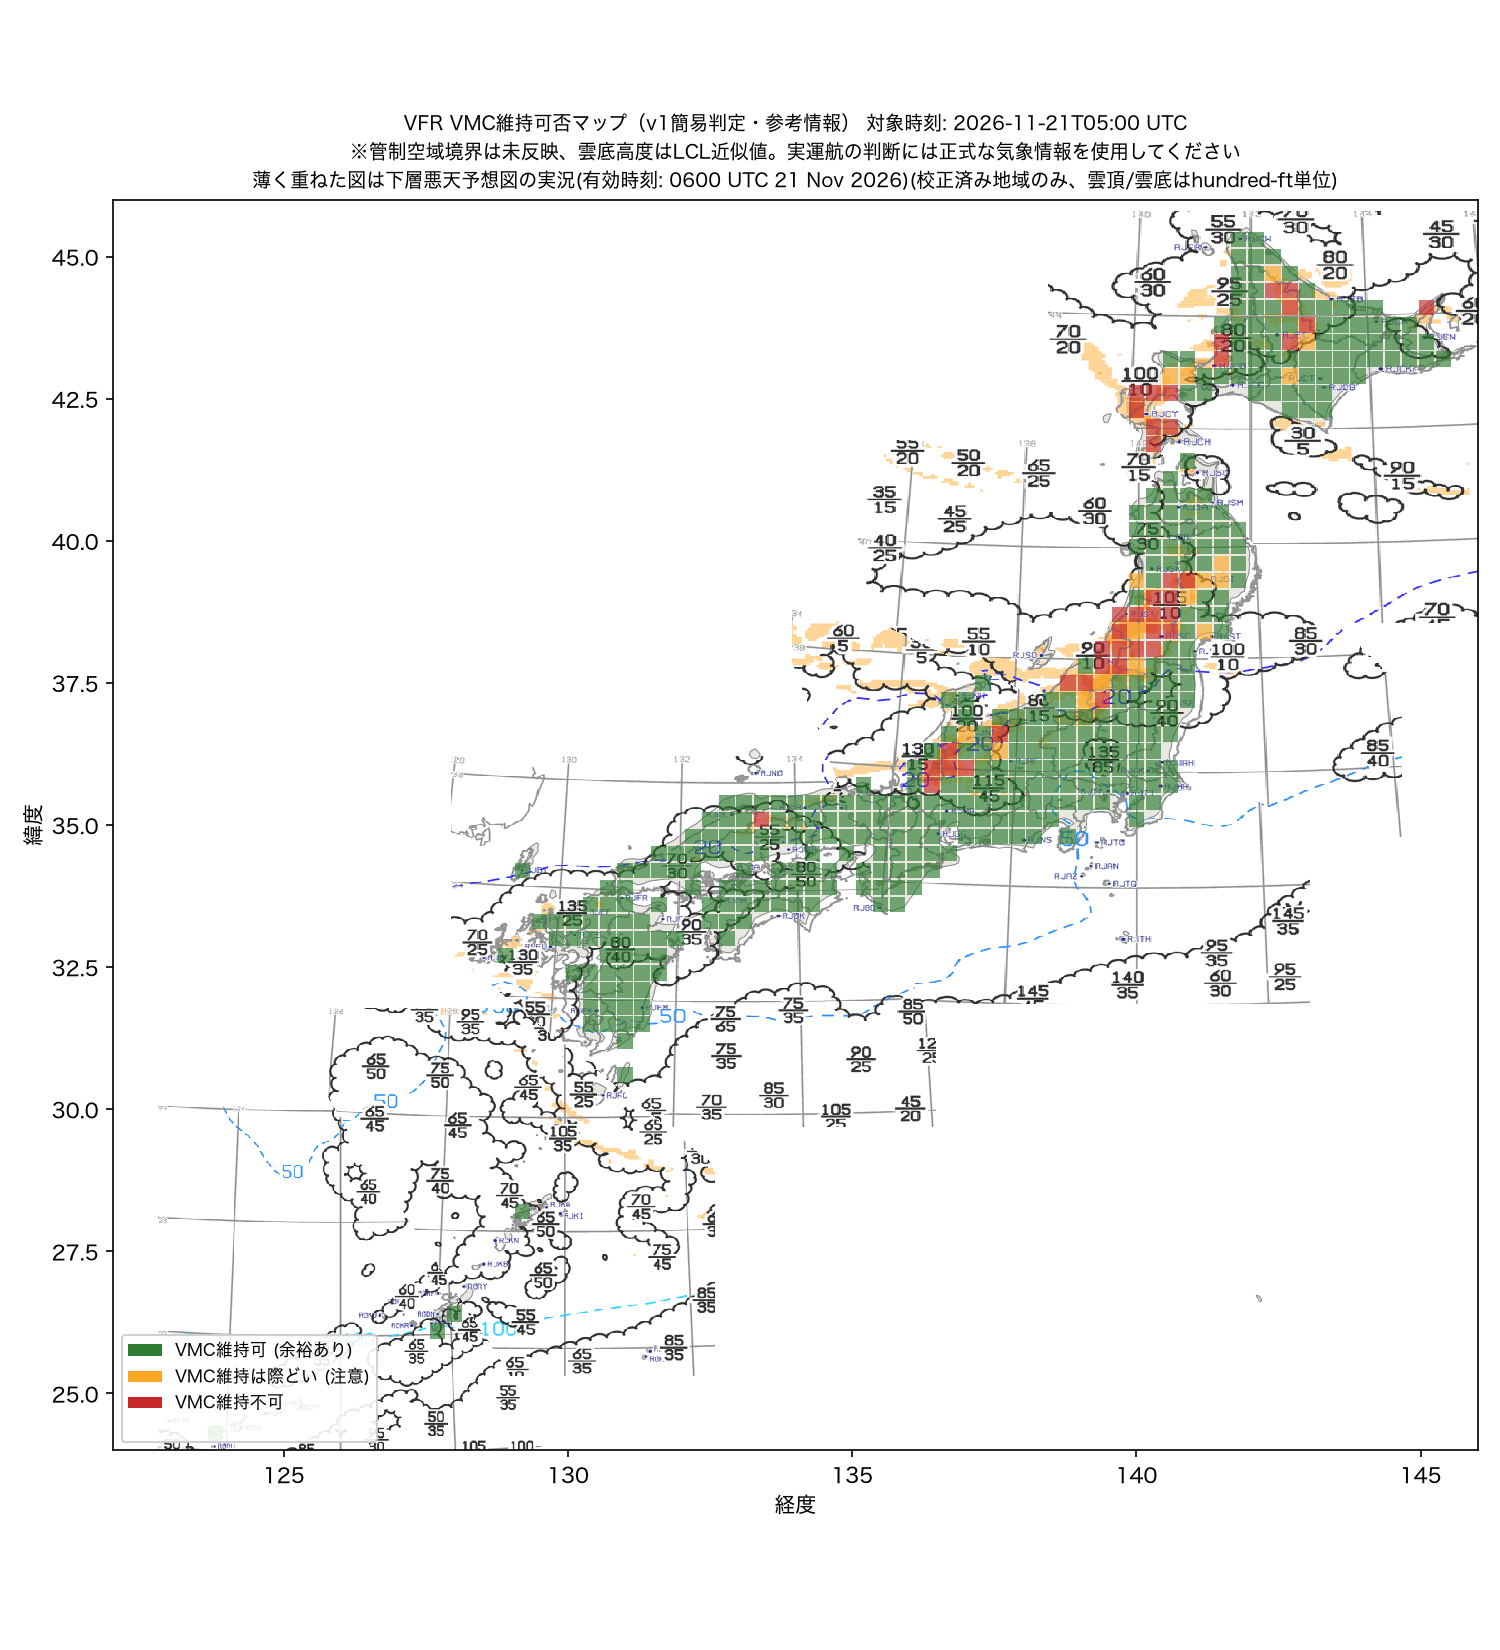
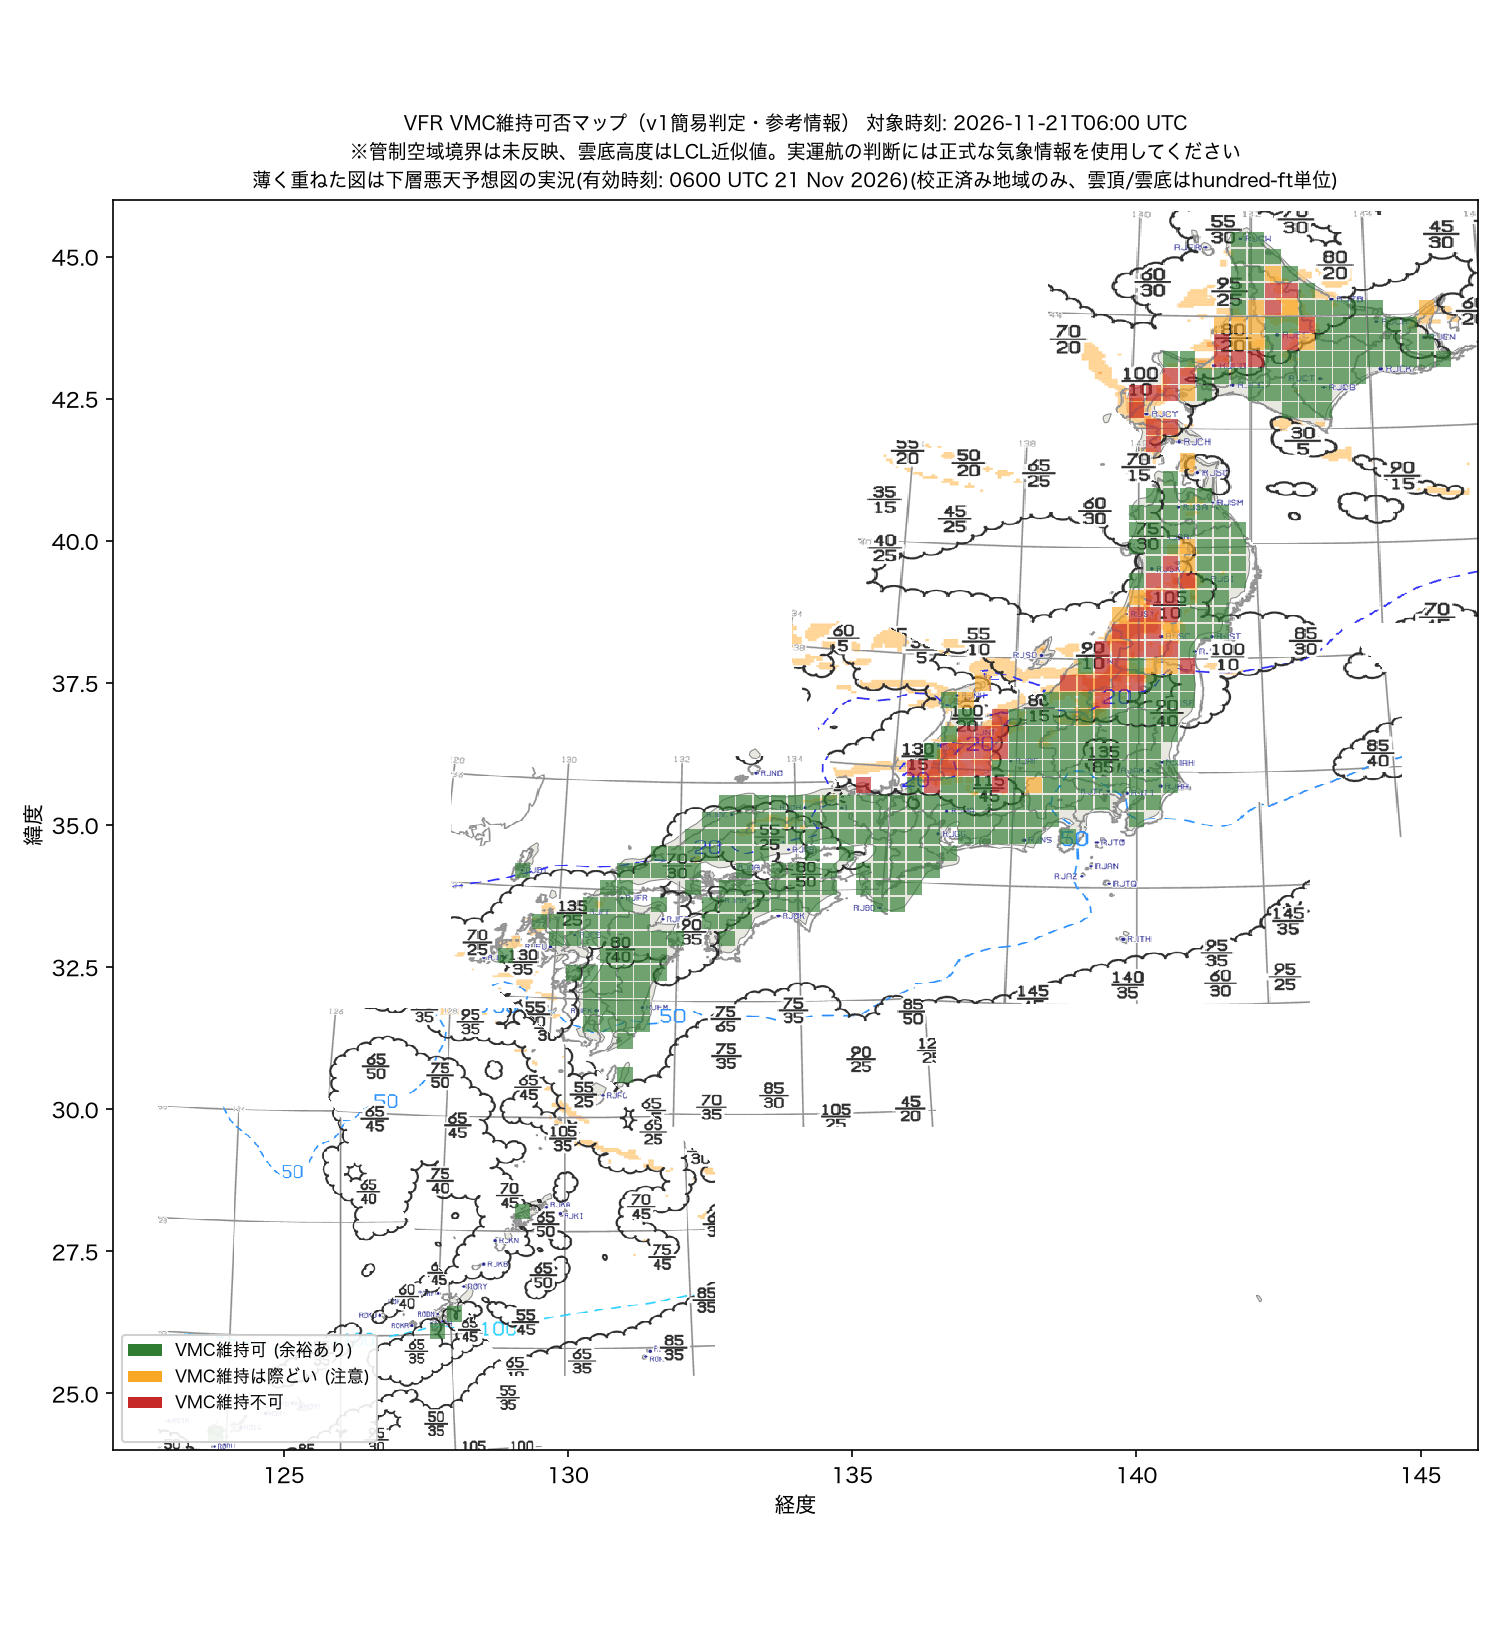
Update VMC map

diff --git a/index.html b/index.html
@@ -3,7 +3,7 @@
 <head>
 <meta charset="utf-8">
 <meta name="viewport" content="width=device-width, initial-scale=1">
-<title>VFR VMC 維持可否マップ (対象時刻: 2026-11-21T05:00 UTC)</title>
+<title>VFR VMC 維持可否マップ (対象時刻: 2026-11-21T06:00 UTC)</title>
 <style>
   :root {
     --bg: #eef1f5; --surface: #ffffff; --text: #1b2530; --text-muted: #5b6b7d;
@@ -109,7 +109,7 @@
     <h1>VFR VMC 維持可否マップ</h1>
     <p class="subtitle">日本全国、地形と雲底の隙間からVMC(視認気象状態)を維持できるかを判定した参考マップです。v1簡易判定につき、実運航の判断には正式な気象情報を使用してください。</p>
     <div class="chips">
-      <span class="chip">気象予報 対象時刻 <b>2026-11-21T05:00 UTC</b></span>
+      <span class="chip">気象予報 対象時刻 <b>2026-11-21T06:00 UTC</b></span>
       <span class="chip">下層悪天予想図 有効時刻 <b>0600 UTC 21 Nov 2026</b></span>
     </div>
     <div class="refresh-row">
